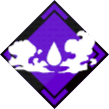
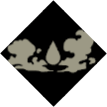
rename imgs and wip disabling

diff --git a/scripts.js b/scripts.js
@@ -41,7 +41,7 @@ const triggers = document.getElementsByTagName('figure');
       // change image
       trig.classList.add("first");
       const old = trig.children[0].attributes.src.nodeValue;
-      const neww = old.replace("-locked","-unlocked");
+      const neww = old.replace("-locked","-selected");
       trig.children[0].setAttribute("src",neww);
       // add points to storage
       localStorage.setItem(`aragami2-${skill}`, costs[skill][0]);
@@ -55,7 +55,7 @@ const triggers = document.getElementsByTagName('figure');
       // change image
       trig.classList.replace("first","second");
       const old = trig.children[0].attributes.src.nodeValue;
-      const neww = old.replace("-unlocked","-upgraded");
+      const neww = old.replace("-selected","-upgraded");
       trig.children[0].setAttribute("src",neww);
       // add points to storage
       localStorage.setItem(`aragami2-up-${skill}`, costs[skill][1]);
@@ -70,8 +70,8 @@ const triggers = document.getElementsByTagName('figure');
       trig.classList.remove("second");
       const old = trig.children[0].attributes.src.nodeValue;
       let neww = "";
-      if(old.endsWith("-unlocked")) {
-        neww = old.replace("-unlocked","-locked");
+      if(old.endsWith("-selected")) {
+        neww = old.replace("-selected","-locked");
       } else {
         neww = old.replace("-upgraded","-locked");
       }
@@ -107,7 +107,7 @@ function loadFromStorage() {
         item.classList.add("first");
         // replace images
         const old = item.children[0].attributes.src.nodeValue;
-        const neww = old.replace("-locked","-unlocked");
+        const neww = old.replace("-locked","-selected");
         item.children[0].setAttribute("src",neww);
       }
     // SECOND CLICK (UPGRADED)
@@ -117,7 +117,7 @@ function loadFromStorage() {
       tmpitem.classList.replace("first","second");
       // replace images
       const old = tmpitem.children[0].attributes.src.nodeValue;
-      const neww = old.replace("-unlocked","-upgraded");
+      const neww = old.replace("-selected","-upgraded");
       tmpitem.children[0].setAttribute("src",neww);
     }
 
@@ -129,39 +129,61 @@ function loadFromStorage() {
 
   });
 
+  // disableRows();
 }
 
 
 
-// disableRows();
-// function disableRows() {
+// disableRows(localStorage.getItem(`aragami2-total`));
+function disableRows(currentTotal) {
 
-//   const row1 = document.querySelector(".row1");
-//   const row2 = document.querySelector(".row2");
-//   const row3 = document.querySelector(".row3");
-//   const row4 = document.querySelector(".row4");
-//   const row5 = document.querySelector(".row5");
-//   const row6 = document.querySelector(".row6");
+  const row1 = document.querySelector(".row1");
+  const row2 = document.querySelector(".row2");
+  const row3 = document.querySelector(".row3");
+  const row4 = document.querySelector(".row4");
+  const row5 = document.querySelector(".row5");
+  const row6 = document.querySelector(".row6");
 
-//   console.log(row2);
+  console.log(row2);
+  console.log(currentTotal);
 
-//   let t = localStorage.getItem(`aragami2-total`);
+  // let t = localStorage.getItem(`aragami2-total`);
 
-//   if( t == 30) {
-//     row6.classList.add("disable");
-//     row5.classList.add("disable");
-//     row4.classList.add("disable");
-//     row3.classList.add("disable");
-//     row2.classList.add("disable");
-//   }
-//   if( t < 30 && t > 24) {
-//     row6.classList.add("disable");
-//     row5.classList.add("disable");
-//     row4.classList.add("disable");
-//     row3.classList.add("disable");
-//   }
+  if( currentTotal == 30) {
+    row6.classList.add("disable");
+    row5.classList.add("disable");
+    row4.classList.add("disable");
+    row3.classList.add("disable");
+    row2.classList.add("disable");
+    // disableRows();
+  }
+  console.log(row1.children[0].classList);
+  if(row1.children[0].classList.contains("first") || 
+     row1.children[0].classList.contains("second")) {
+    row6.classList.add("disable");
+    row5.classList.add("disable");
+    row4.classList.add("disable");
+    row3.classList.add("disable");
+    row2.classList.remove("disable");
+    // disableRows(currentTotal);
+  }
+  if( currentTotal < 30 && currentTotal >= 25) {
+    row6.classList.add("disable");
+    row5.classList.add("disable");
+    row4.classList.add("disable");
+    row3.classList.remove("disable");
+    row2.classList.remove("disable");
+    // disableRows();
+  }
 
+  // if( currentTotal < 25 && currentTotal >= 20) {
+  //   row6.classList.add("disable");
+  //   row5.classList.add("disable");
+  //   row4.classList.remove("disable");
+  //   row3.classList.remove("disable");
+  //   row2.classList.remove("disable");
+  //   // disableRows();
+  // }
 
-
-// }
+}
 
